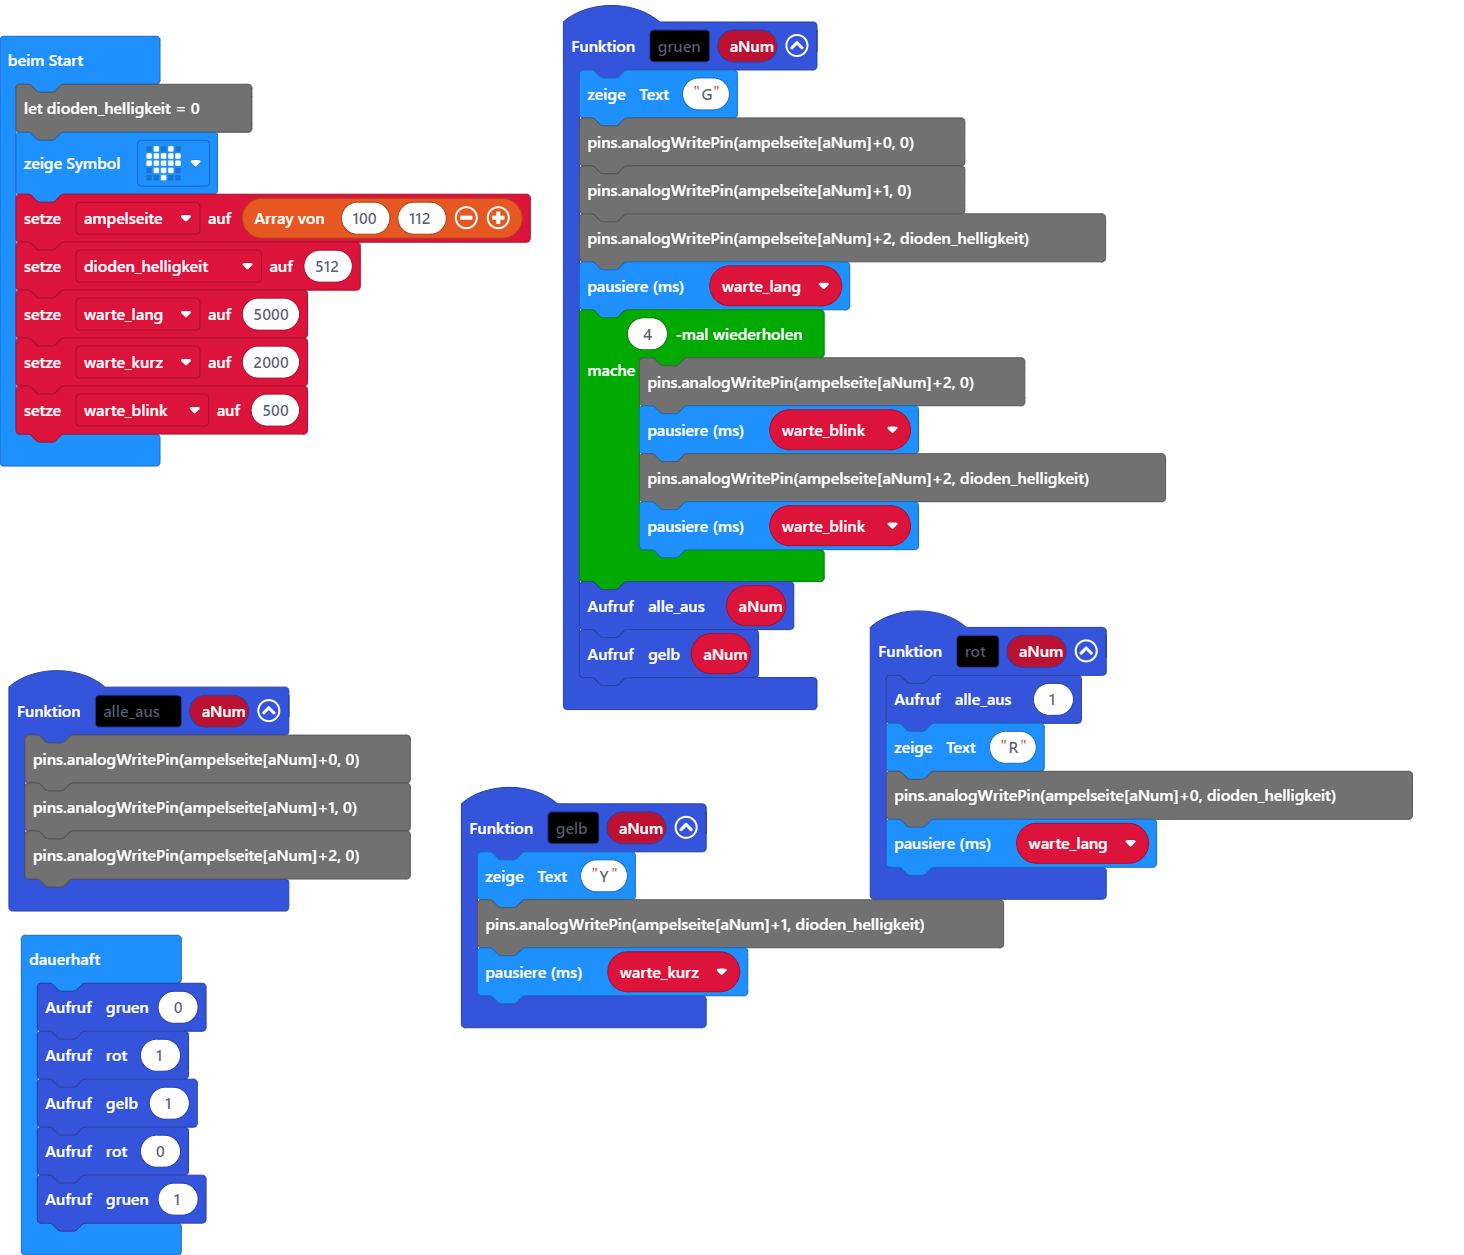
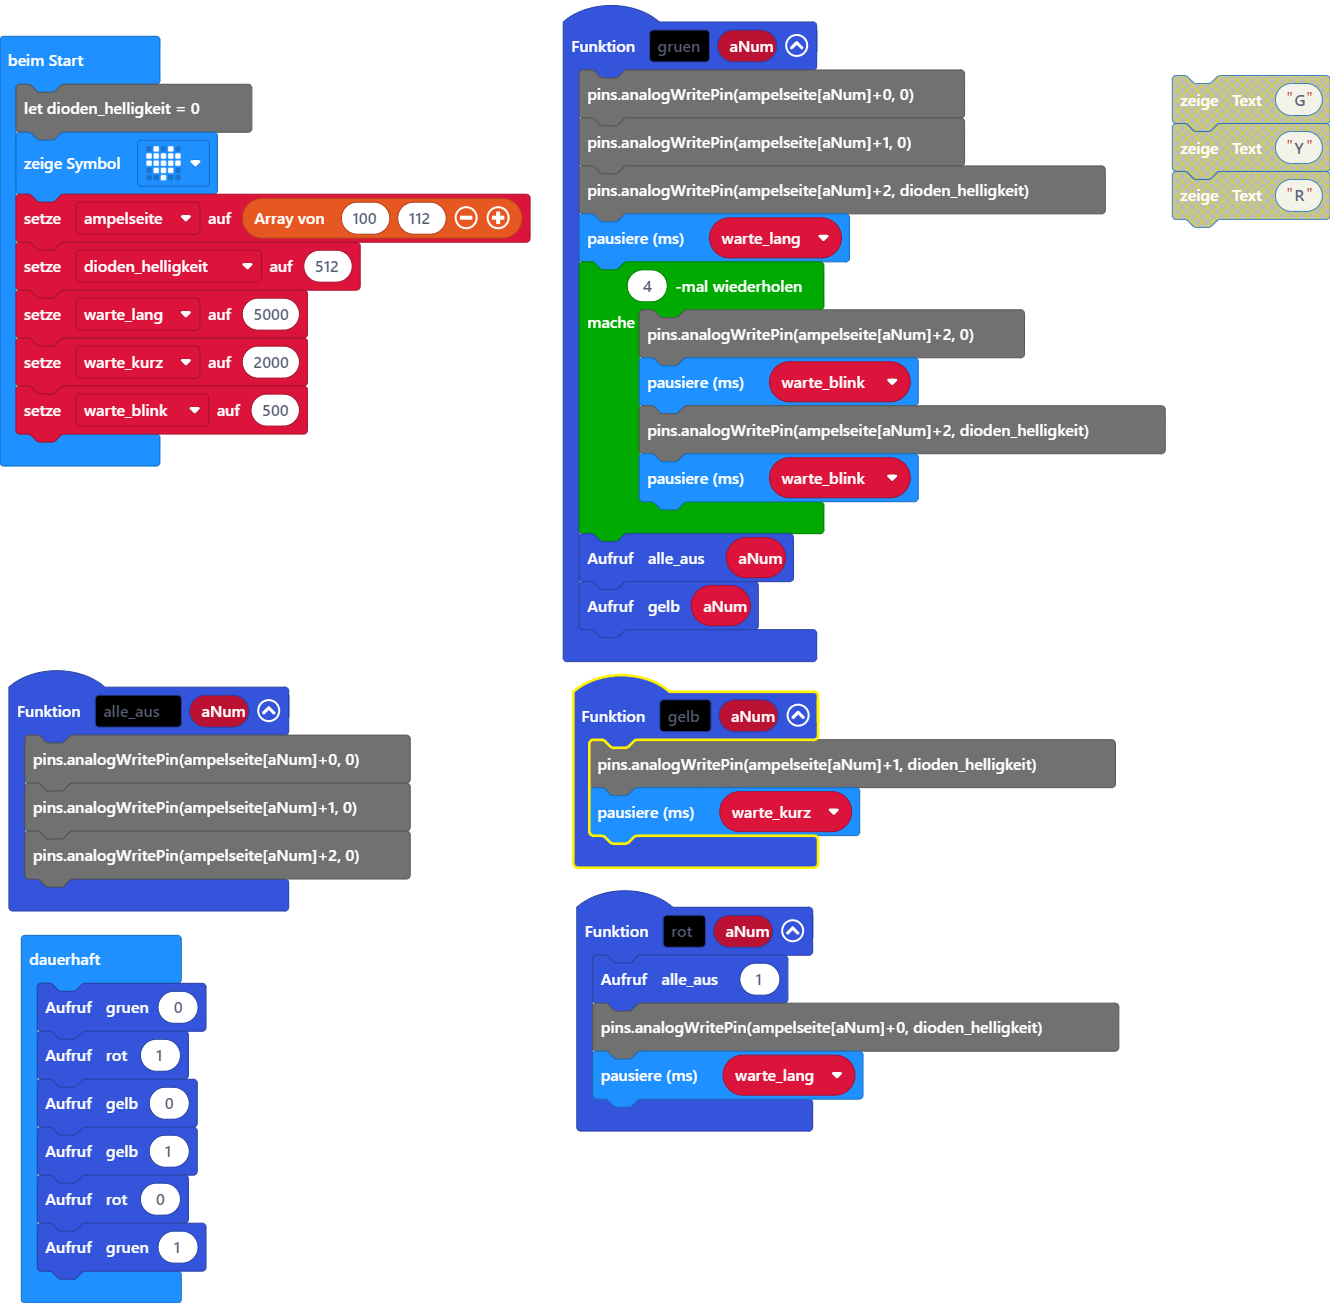
Aktualisiere main.blocks, main.ts

diff --git a/main.ts b/main.ts
@@ -1,10 +1,8 @@
 function gelb (aNum: number) {
-    basic.showString("Y")
     pins.analogWritePin(ampelseite[aNum]+1, dioden_helligkeit)
 basic.pause(warte_kurz)
 }
 function gruen (aNum: number) {
-    basic.showString("G")
     pins.analogWritePin(ampelseite[aNum]+0, 0)
 pins.analogWritePin(ampelseite[aNum]+1, 0)
 pins.analogWritePin(ampelseite[aNum]+2, dioden_helligkeit)
@@ -20,7 +18,6 @@ basic.pause(warte_blink)
 }
 function rot (aNum: number) {
     alle_aus(1)
-    basic.showString("R")
     pins.analogWritePin(ampelseite[aNum]+0, dioden_helligkeit)
 basic.pause(warte_lang)
 }
@@ -42,6 +39,7 @@ warte_blink = 500
 basic.forever(function () {
     gruen(0)
     rot(1)
+    gelb(0)
     gelb(1)
     rot(0)
     gruen(1)
